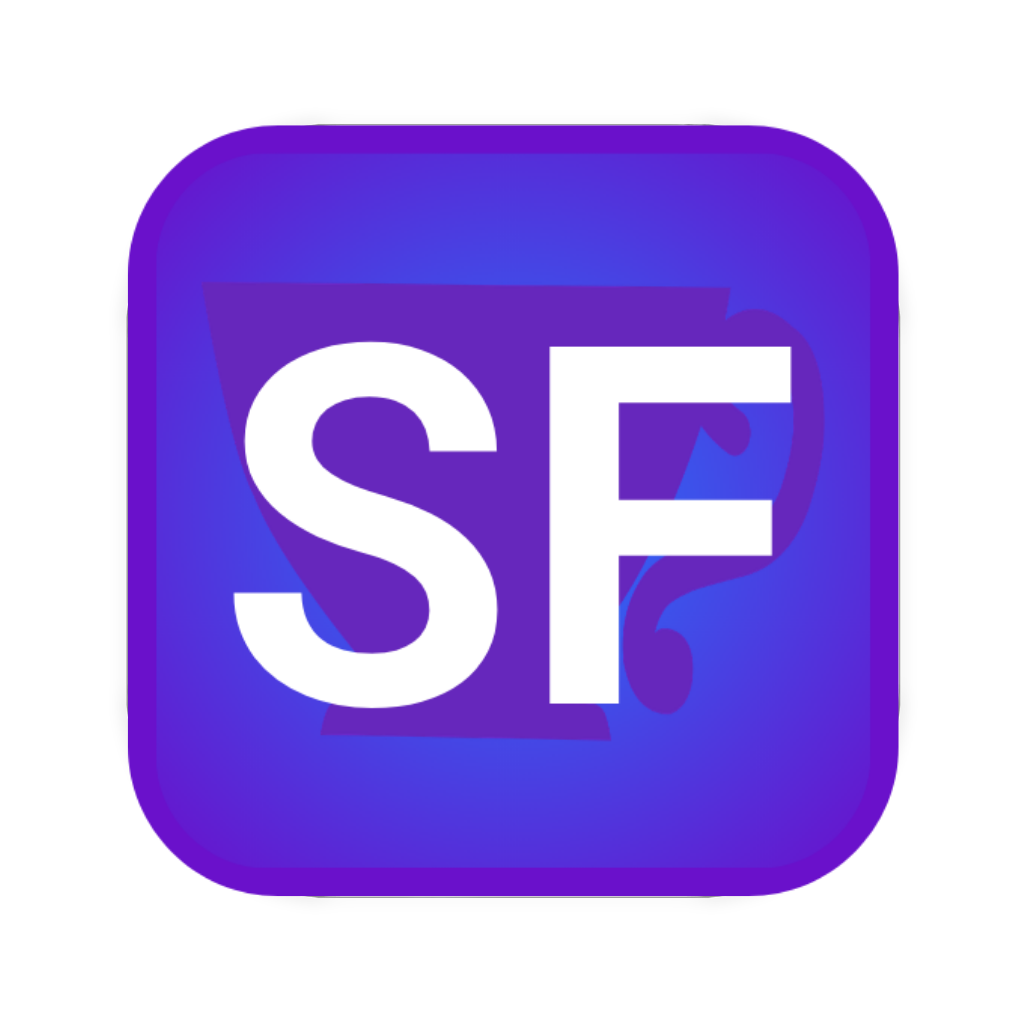
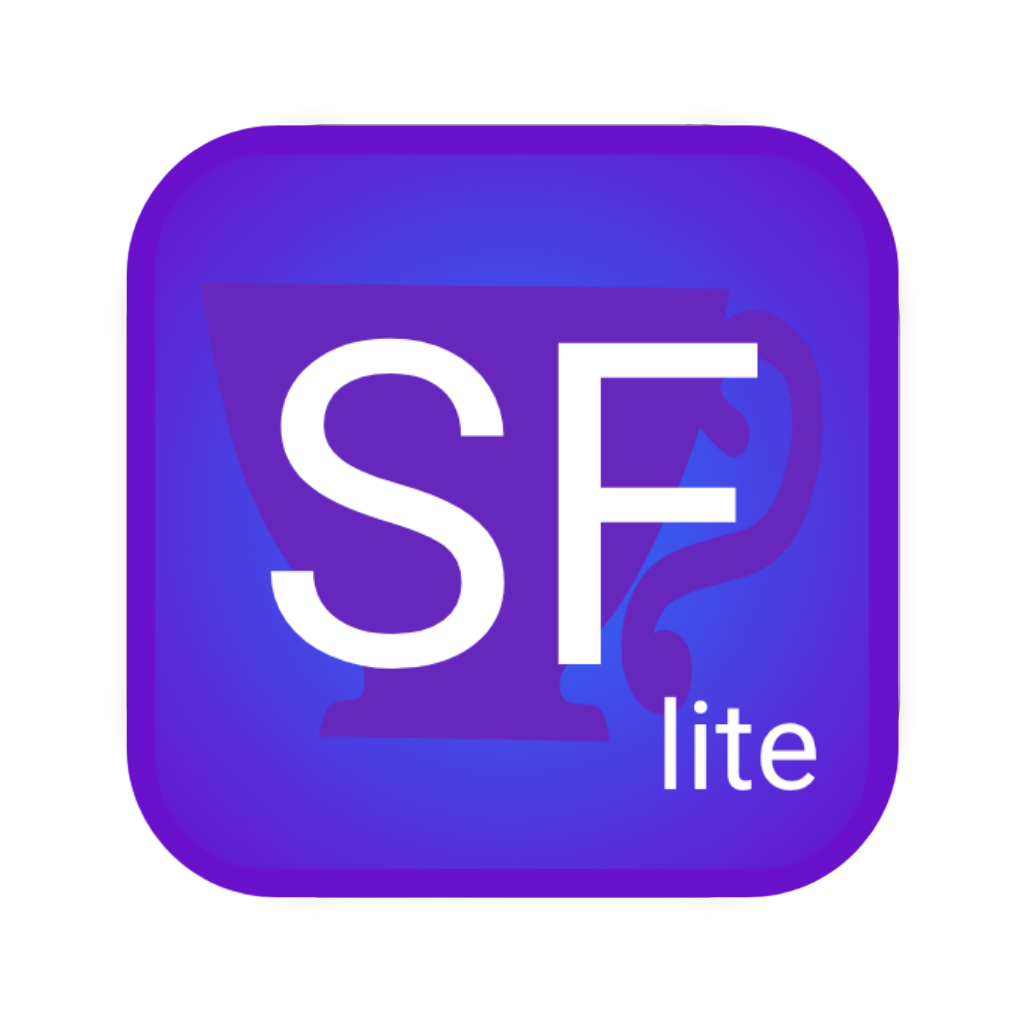
Fixed github page link, and fixed some existing window title bugs

diff --git a/src/main/main.js b/src/main/main.js
@@ -1,4 +1,4 @@
-const { app, BrowserWindow, ipcMain, session, Tray, Menu, nativeImage, screen } = require('electron');
+const { app, BrowserWindow, ipcMain, session, Tray, Menu, nativeImage, screen, shell } = require('electron');
 const path = require('path');
 const fs = require('fs');
 const http = require('http');
@@ -48,6 +48,7 @@ function createWindow() {
   mainWindow = new BrowserWindow({
     width: 900,
     height: 700,
+    alwaysOnTop: false,
     icon: path.join(__dirname, '../../assets/fokusicon.png'),
     webPreferences: {
       nodeIntegration: false,
@@ -59,6 +60,19 @@ function createWindow() {
   mainWindow.maximize();
 
     mainWindow.loadFile(path.join(__dirname, '../../index.html'));
+
+  mainWindow.webContents.setWindowOpenHandler(({ url }) => {
+    shell.openExternal(url);
+    return { action: 'deny' };
+  });
+
+  mainWindow.webContents.on('will-navigate', (event, url) => {
+    const currentUrl = mainWindow.webContents.getURL();
+    if (url !== currentUrl) {
+      event.preventDefault();
+      shell.openExternal(url);
+    }
+  });
 
   mainWindow.on('close', (event) => {
     if (!isQuitting) {

diff --git a/index.html b/index.html
@@ -2,7 +2,7 @@
 <html>
   <head>
     <meta charset="UTF-8">
-    <title>SuperFokus lite Dashboard</title>
+    <title>SuperFokus Lite Dashboard</title>
     <link rel="preconnect" href="https://fonts.googleapis.com">
     <link rel="preconnect" href="https://fonts.gstatic.com" crossorigin>
     <link href="https://fonts.googleapis.com/css2?family=Roboto:wght@300;400;500;700&display=swap" rel="stylesheet">
@@ -1035,7 +1035,7 @@
     </div>
 
     <div style="position: fixed; bottom: 15px; left: 20px; font-size: 0.85rem; color: #95a5a6; font-weight: 500; z-index: 1000;">
-      <a href="https://github.com/wallbuilder/SuperFokus" target="_blank" style="color: inherit; text-decoration: none;">GitHub Page</a>
+      <a href="https://github.com/A1A2J2/SuperFokus-Lite" target="_blank" style="color: inherit; text-decoration: none;">GitHub Page</a>
     </div>
     <div id="version">SuperFokus v1.0.0-lite-beta</div>
 